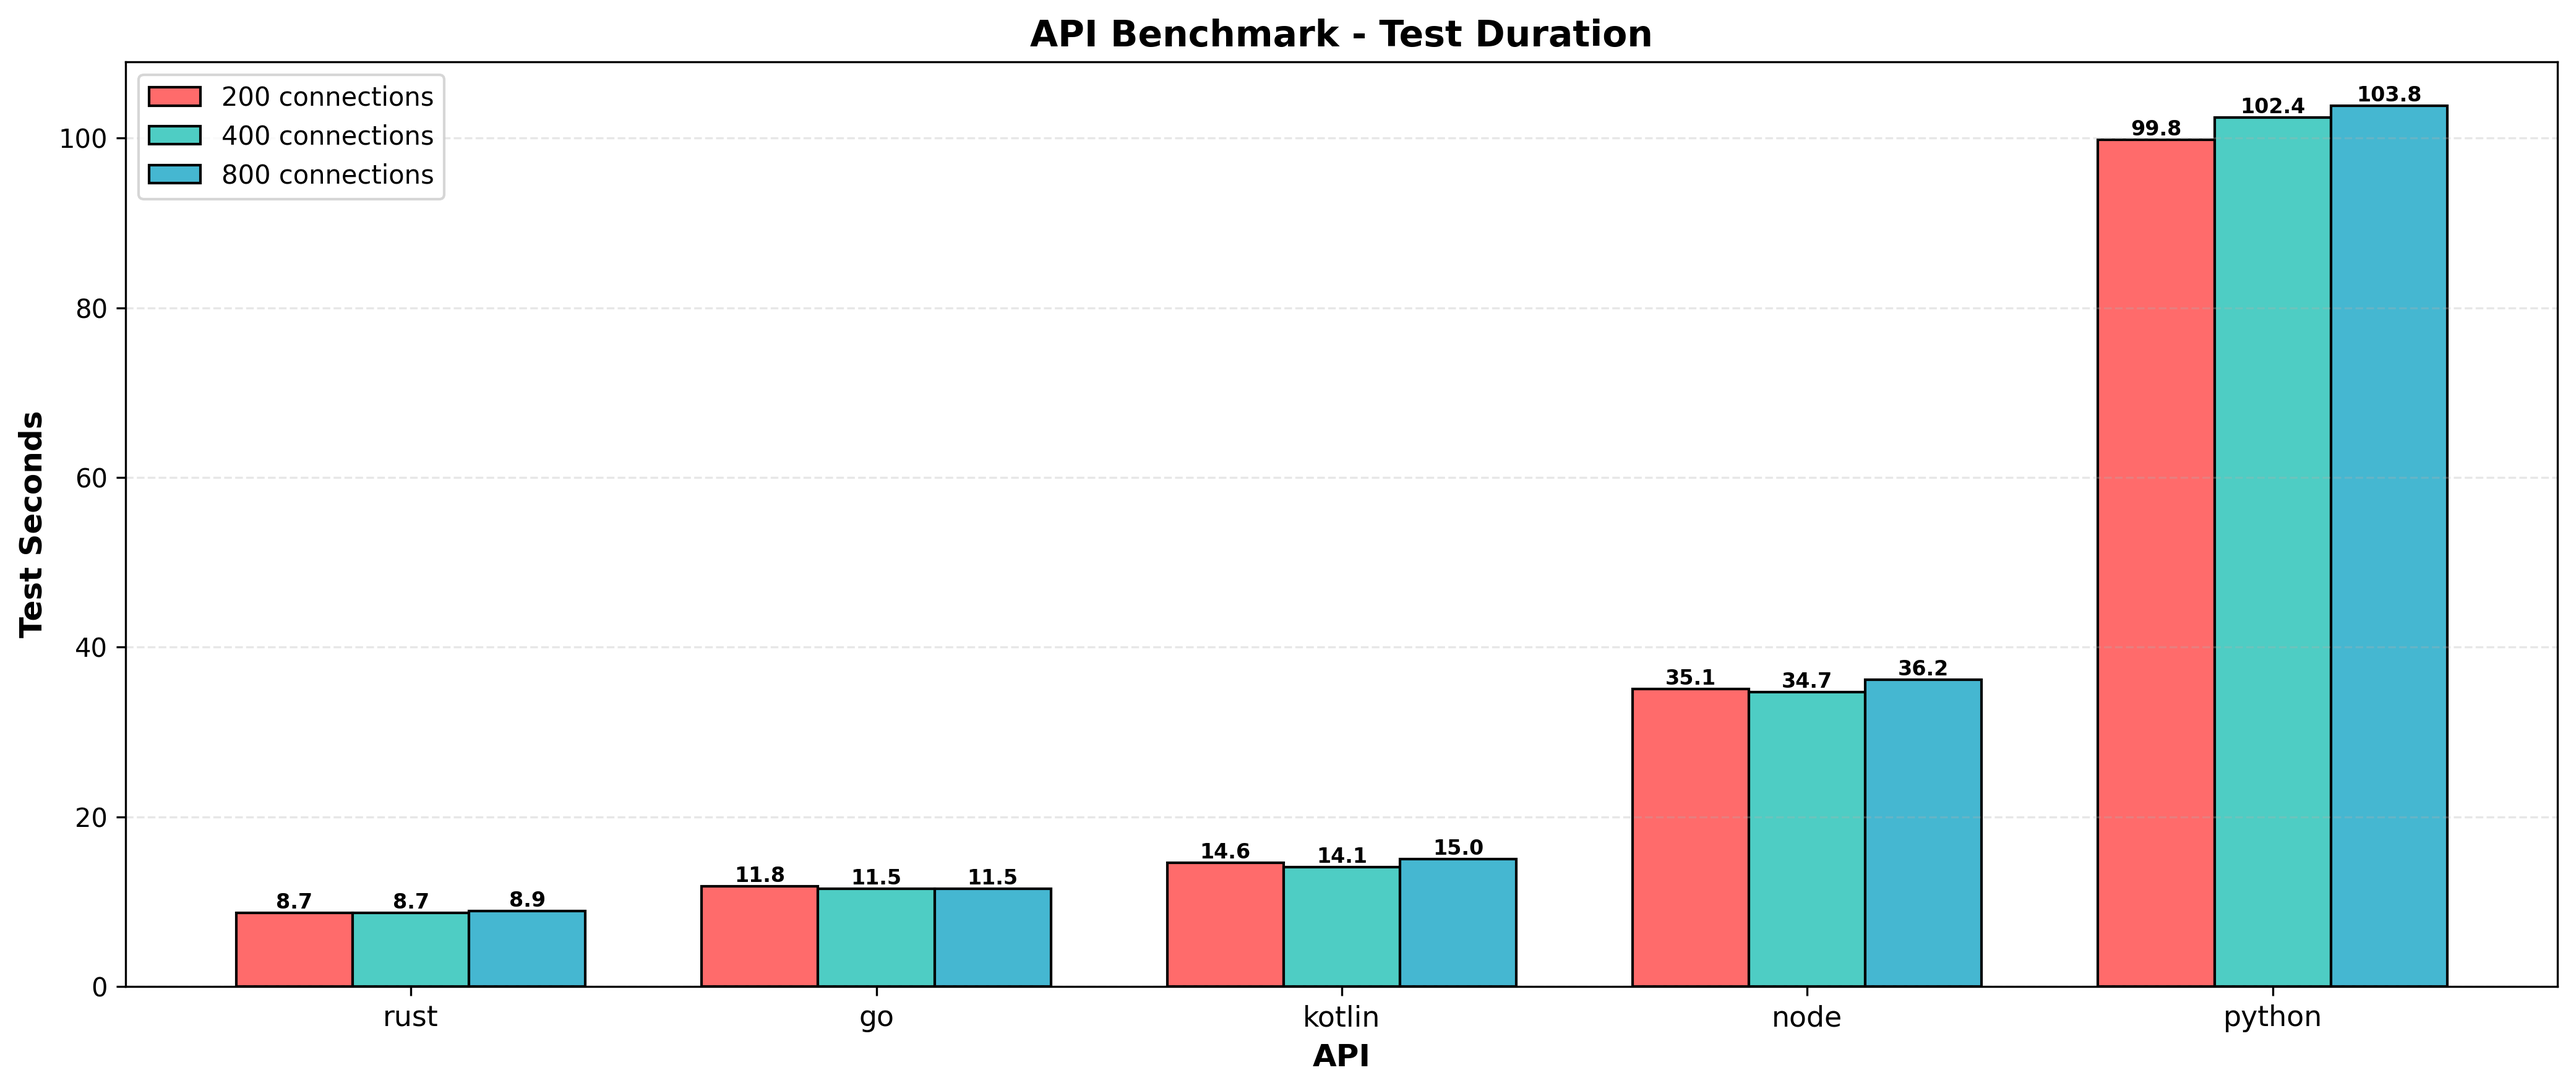
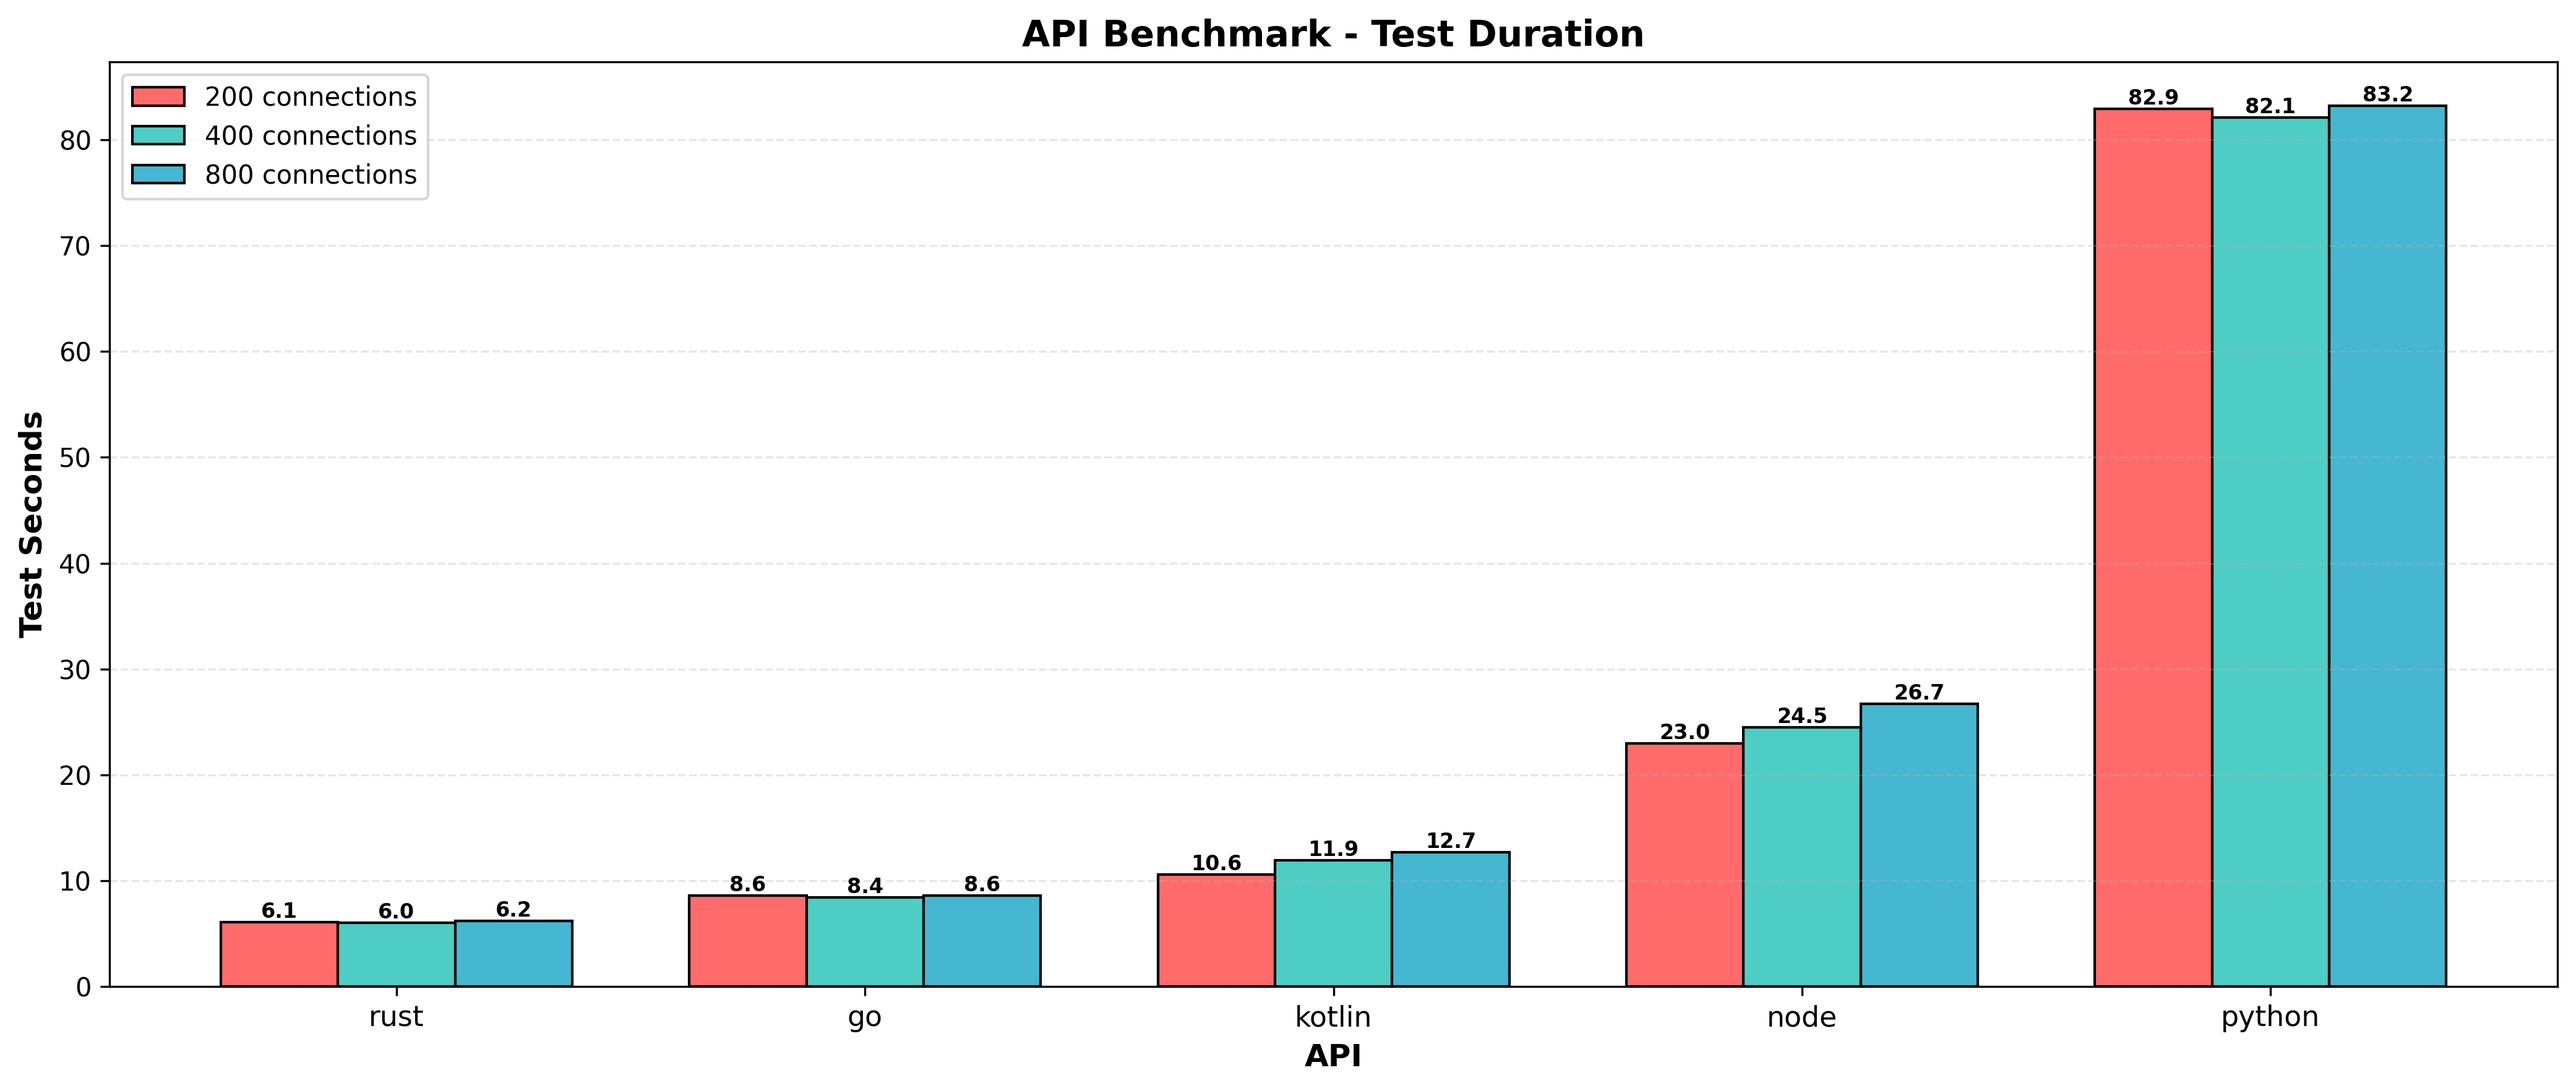
results from github actions autocommit

diff --git a/results/raw.md b/results/raw.md
@@ -1,26 +1,26 @@
 # Results
 ## Timestamp
-Tue Jan 20 11:13:47 UTC 2026
+Thu Jan 22 11:15:46 UTC 2026
 ## Hardware Info
 | CPU Model | Num CPUs | Memory |
 | --------- | -------- | ------ |
-| AMD EPYC 7763 64-Core Processor | 4 | 16G |
+| Intel(R) Xeon(R) Platinum 8370C CPU @ 2.80GHz | 4 | 16G |
 
 ## Benchmarks of 1 Million Requests
 | Test Name | HTTP Conns | Success Rate | Test Seconds | Requests per Second | P50 Millis | P99 Millis | P99.9 Millis | API Memory MB | API CPU Time | API Threads | API Processes |
 | --------- | ---------- | ------------ | ------------ | ------------------- | ---------- | ---------- | ------------ | ------------- | ------------ | ----------- | ------------- |
-| rust | 200 | 100.0% | 8.7 | 113947.9 | 1.6200 | 4.5016 | 6.0638 | 8.4 | 00:00:17 | 5 | 1 |
-| rust | 400 | 100.0% | 8.7 | 114830.0 | 3.2824 | 7.2873 | 10.3634 | 13.0 | 00:00:17 | 5 | 1 |
-| rust | 800 | 100.0% | 8.9 | 112298.2 | 6.9232 | 11.4720 | 16.8340 | 22.0 | 00:00:17 | 5 | 1 |
-| go | 200 | 100.0% | 11.8 | 84557.6 | 1.8524 | 7.3264 | 9.9897 | 17.8 | 00:00:28 | 11 | 1 |
-| go | 400 | 100.0% | 11.5 | 86784.9 | 3.9059 | 13.7690 | 19.3433 | 24.6 | 00:00:27 | 11 | 1 |
-| go | 800 | 100.0% | 11.5 | 86966.2 | 8.2144 | 25.2010 | 37.7019 | 37.1 | 00:00:27 | 11 | 1 |
-| kotlin | 200 | 100.0% | 14.6 | 68243.1 | 2.0349 | 12.1916 | 28.4287 | 518.6 | 00:00:40 | 30 | 1 |
-| kotlin | 400 | 100.0% | 14.1 | 70599.5 | 4.6139 | 20.7369 | 50.9359 | 522.3 | 00:00:38 | 30 | 1 |
-| kotlin | 800 | 100.0% | 15.0 | 66427.9 | 9.6585 | 43.6200 | 107.2083 | 744.9 | 00:00:41 | 30 | 1 |
-| node | 200 | 100.0% | 35.1 | 28413.7 | 6.0928 | 10.4312 | 12.9916 | 102.4 | 00:00:35 | 7 | 1 |
-| node | 400 | 100.0% | 34.7 | 28793.4 | 11.8408 | 19.0122 | 21.4296 | 139.2 | 00:00:35 | 7 | 1 |
-| node | 800 | 100.0% | 36.2 | 27594.7 | 25.5647 | 40.0158 | 44.4828 | 148.1 | 00:00:36 | 7 | 1 |
-| python | 200 | 100.0% | 99.8 | 10013.4 | 21.5417 | 33.6719 | 37.9226 | 134.4 | 00:05:58 | 5 | 5 |
-| python | 400 | 100.0% | 102.4 | 9750.2 | 32.8974 | 83.9483 | 96.4557 | 135.3 | 00:06:08 | 5 | 5 |
-| python | 800 | 100.0% | 103.8 | 10077.9 | 77.3188 | 129.9625 | 143.0013 | 144.0 | 00:06:15 | 5 | 5 |
+| rust | 200 | 100.0% | 6.1 | 162978.0 | 1.1071 | 2.9694 | 4.1857 | 8.6 | 00:00:11 | 5 | 1 |
+| rust | 400 | 100.0% | 6.0 | 165706.1 | 2.4504 | 3.9681 | 6.0216 | 13.8 | 00:00:11 | 5 | 1 |
+| rust | 800 | 100.0% | 6.2 | 160012.5 | 4.8841 | 8.3630 | 13.0987 | 22.3 | 00:00:12 | 5 | 1 |
+| go | 200 | 100.0% | 8.6 | 115351.5 | 1.3562 | 5.4819 | 7.4451 | 17.6 | 00:00:20 | 10 | 1 |
+| go | 400 | 100.0% | 8.4 | 118002.0 | 2.8272 | 9.7626 | 13.1335 | 24.2 | 00:00:20 | 11 | 1 |
+| go | 800 | 100.0% | 8.6 | 115334.4 | 6.2256 | 17.2706 | 26.3261 | 38.0 | 00:00:20 | 10 | 1 |
+| kotlin | 200 | 100.0% | 10.6 | 93567.4 | 1.4181 | 10.1574 | 31.6780 | 521.5 | 00:00:29 | 30 | 1 |
+| kotlin | 400 | 100.0% | 11.9 | 83724.2 | 3.9585 | 17.3155 | 79.6013 | 589.2 | 00:00:34 | 30 | 1 |
+| kotlin | 800 | 100.0% | 12.7 | 78387.6 | 8.4781 | 32.0471 | 119.6131 | 889.0 | 00:00:36 | 30 | 1 |
+| node | 200 | 100.0% | 23.0 | 43398.1 | 4.0039 | 6.4904 | 8.5680 | 106.1 | 00:00:23 | 7 | 1 |
+| node | 400 | 100.0% | 24.5 | 40750.8 | 8.8418 | 13.5782 | 17.7598 | 138.5 | 00:00:24 | 7 | 1 |
+| node | 800 | 100.0% | 26.7 | 37449.2 | 18.4604 | 27.7677 | 33.4690 | 148.2 | 00:00:27 | 7 | 1 |
+| python | 200 | 100.0% | 82.9 | 12074.8 | 14.4392 | 33.5828 | 35.6907 | 135.4 | 00:05:03 | 5 | 5 |
+| python | 400 | 100.0% | 82.1 | 12192.6 | 24.8895 | 59.1779 | 69.6786 | 135.9 | 00:05:00 | 5 | 5 |
+| python | 800 | 100.0% | 83.2 | 11965.5 | 74.9538 | 111.5330 | 124.4367 | 144.1 | 00:05:05 | 5 | 5 |

diff --git a/results/latest.md b/results/latest.md
@@ -1,6 +1,6 @@
 # Latest Results
 
-Timestamp: `Tue Jan 20 11:13:47 UTC 2026`
+Timestamp: `Thu Jan 22 11:15:46 UTC 2026`
 
 ## Requests Per Second
 ![Requests Per Second](rps.png)
